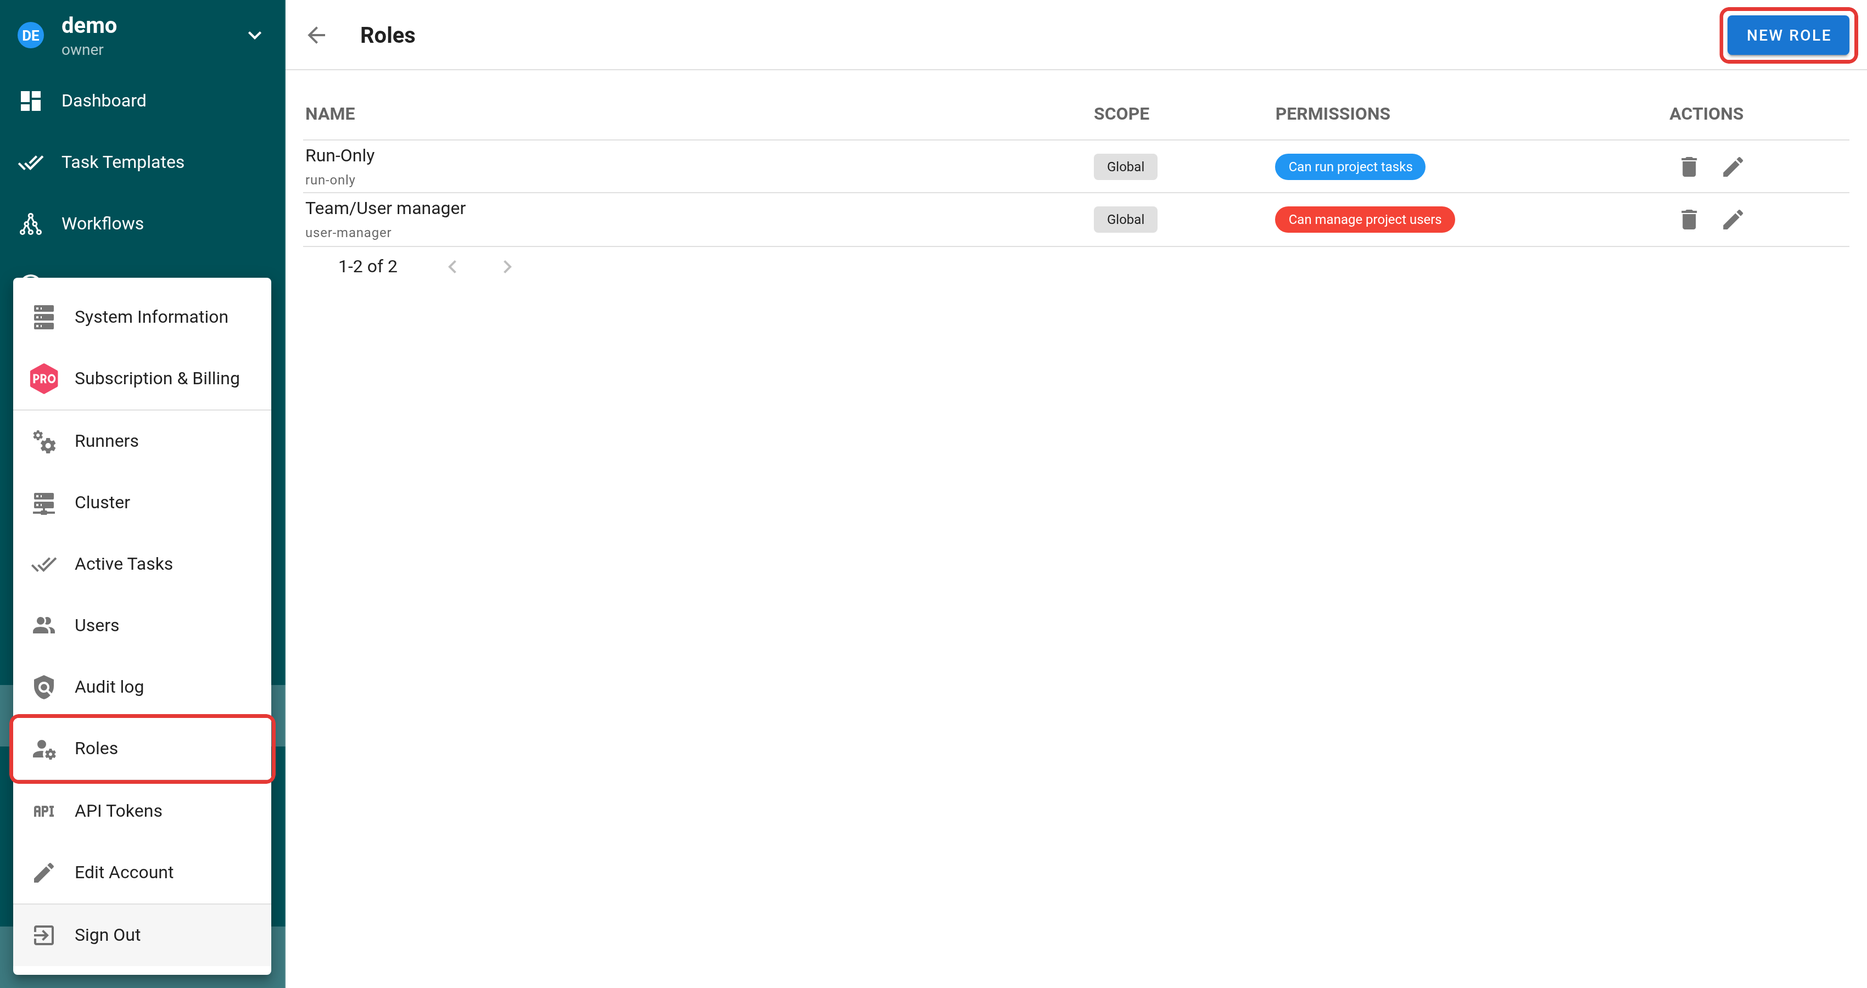
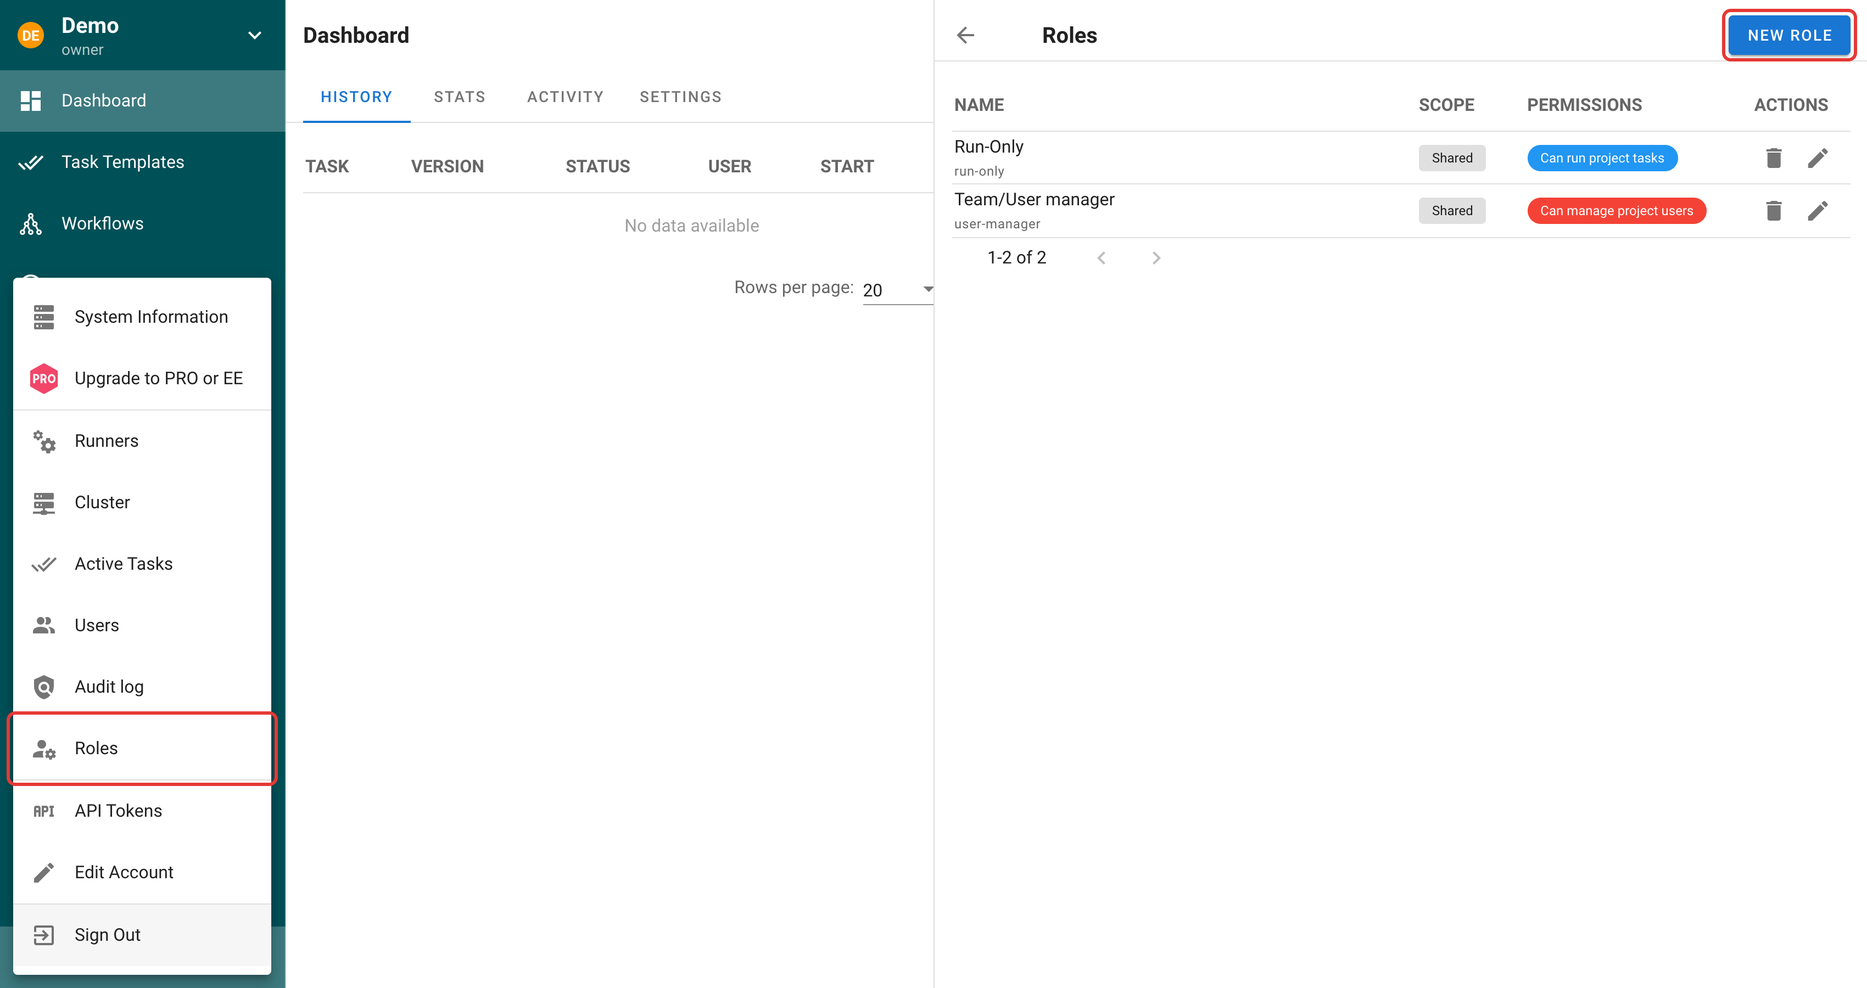
feat: add screenshots

diff --git a/docs/user-guide/team.md b/docs/user-guide/team.md
@@ -86,8 +86,10 @@ A custom role is a role you create yourself, with the permissions you choose. Yo
 
 Custom roles are available at two scopes:
 
-- **Global roles** are defined at the instance level and can be used in any project.
+- **Shared roles** are project-level roles defined at the instance level, on the **Roles** page. They can be used in any project.
 - **Project roles** are defined inside a single project and are available only within that project.
+
+Both grant permissions inside a project. Instance-wide rights, such as managing users or reading the audit log, come from **global roles**, a separate kind of role that is never added to a project member.
 
 ### Permission levels {#permission-levels}
 
@@ -100,17 +102,22 @@ Custom roles grant permissions at two levels:
 
 Choose the scope before opening the role form.
 
-#### Global role {#global-role}
+#### Instance-level roles {#global-role}
 
-Global roles are created once and can be assigned to users in any project. A global role can also carry [global permissions](#global-permissions): instance-wide rights that a user receives when the role is [assigned to them globally](#assign-a-global-role-to-a-user), outside of any project.
+Two kinds of roles are managed at the instance level:
 
-An instance administrator, or a user whose global role grants **Can manage global roles**, can create a global role.
+- **Shared roles** on the **Roles** page. A shared role is created once and can be added to a member of any project, like a built-in role.
+- **Global roles** on the **Global roles** tab of the **Users** page. They grant [global permissions](#global-permissions): instance-wide rights a user receives when the role is [assigned to them](#assign-a-global-role-to-a-user), outside of any project. A global role has no project permissions and cannot be added to a project member.
 
-Open the bottom-left admin menu and select **Roles**.
+An instance administrator, or a user whose global role grants **Can manage global roles**, can create both.
 
-On the instance-wide list of roles, select **New Role**.
+Open the bottom-left admin menu and select **Roles** for a shared role, or **Users** and the **Global roles** tab for a global role.
+
+Select **New Role** (or **New Global Role**).
 
 ![Open Roles from the administrator menu, then select New Role](/assets/custom-roles-navigation-to-new-role-annotated-v4.png)
+
+![Global roles tab on the Users page](/assets/custom-roles-global-roles-tab.webp)
 
 #### Project role {#project-role}
 
@@ -125,7 +132,7 @@ The **Roles** tab is empty until the first project role is created. It lists all
 
 ### Configure a custom role {#configure-a-custom-role}
 
-Both paths open the same role form. Configure the role to match the access your team member needs.
+Shared roles and project roles open the same role form. Configure the role to match the access your team member needs.
 
 ![New Role dialog with fields and permission checkboxes](/assets/custom-roles-global-role-form.jpg)
 
@@ -134,7 +141,10 @@ Both paths open the same role form. Configure the role to match the access your 
 | **Name** | A human-readable label for the role. |
 | **Slug** | A unique technical identifier used to reference the role. It can contain letters, numbers, `_` and `-`, up to 100 characters, for example `release_operator`. Letter case does not matter: `Ops` and `ops` are the same slug. You cannot change the slug after you create the role. |
 | **Permissions** | The project-wide permissions granted by the role. |
-| **Global permissions** | Global roles only. The instance-wide permissions a user receives when the role is assigned to them globally. |
+
+The form of a global role has the same **Name** and **Slug** fields and, instead of project permissions, the **global permissions** the role grants.
+
+![New Global Role dialog with the global permission checkboxes](/assets/custom-roles-new-global-role.webp)
 
 #### Project-wide permissions {#project-wide-permissions}
 
@@ -155,12 +165,12 @@ To create a granular role that adds access only to selected task templates, leav
 
 #### Global permissions {#global-permissions}
 
-A global role can grant instance-wide permissions. They apply only when the role is assigned to a user globally, on the user's **Global roles** tab. The same role added to a project member grants only its project-wide permissions.
+A global role grants instance-wide permissions. They apply when the role is assigned to a user on the user's **Roles** tab. A global role never grants anything inside a project, and a shared or project role never grants anything instance-wide: the two kinds of permissions are kept apart.
 
 | Permission | Description |
 | --- | --- |
 | **Can manage users** | Create, edit and delete users. The **Admin** and **Pro user** flags stay with administrators, and a user manager cannot change or delete an administrator or a user who holds a global permission the manager does not hold. |
-| **Can manage global roles** | Create, edit and delete global roles, and assign them to users. |
+| **Can manage global roles** | Create, edit and delete shared and global roles, and assign global roles to users. |
 | **Can manage system settings** | Open **Settings**, **Apps**, **Runners**, **Cluster** and **Active tasks**, and clear the cache. |
 | **Can read the audit log** | Open the audit log. |
 
@@ -173,12 +183,16 @@ Select **Save** when the role configuration is ready.
 ### Assign a global role to a user {#assign-a-global-role-to-a-user}
 
 1. Open the bottom-left admin menu and select **Users**.
-2. Open the user and go to the **Global roles** tab.
+2. Open the user and go to the **Roles** tab.
 3. Choose a global role and select **Assign**.
 
-The tab lists the roles the user holds and the resulting **effective global permissions**, with the role that grants each of them. Remove a role with the delete button next to it.
+The tab lists the global roles the user holds and the resulting **effective global permissions**, with the role that grants each of them. Remove a role with the delete button next to it.
 
-Only roles with at least one global permission are offered. Built-in roles cannot be assigned globally: they grant nothing outside a project.
+Only global roles are offered. Shared, project and built-in roles belong to project membership and cannot be assigned here.
+
+Deleting a global role that users hold asks for confirmation and removes it from every user. The last user who can manage global roles keeps the role.
+
+![Roles tab of a user with an assigned global role and the effective global permissions](/assets/custom-roles-assign-global-role.webp)
 
 ### Configure access to specific task templates {#configure-access-to-specific-task-templates}
 
@@ -210,7 +224,7 @@ Template permissions are additive. They add access without replacing or reducing
 
 ### Assign a custom role in a project {#assign-a-custom-role-in-a-project}
 
-After creating and configuring a global or project role, assign it to the required team member:
+After creating and configuring a shared or project role, assign it to the required team member:
 
 1. Open the project and go to **Team**.
 2. Select the role field next to the required member.

diff --git a/i18n/ru/docusaurus-plugin-content-docs/current/user-guide/team.md b/i18n/ru/docusaurus-plugin-content-docs/current/user-guide/team.md
@@ -107,6 +107,8 @@
 
 ![Откройте Roles из меню администратора и выберите New Role](/assets/custom-roles-navigation-to-new-role-annotated-v4.png)
 
+![Global roles tab on the Users page](/assets/custom-roles-global-roles-tab.webp)
+
 #### Роль проекта {#project-role}
 
 Роли проекта доступны только в том проекте, где они созданы. Создавать их могут владельцы и менеджеры проекта.
@@ -130,6 +132,8 @@
 | **Slug** | Уникальный технический идентификатор, по которому на роль ссылаются. Может содержать латинские буквы, цифры, `_` и `-`, не более 100 символов, например `release_operator`. Регистр букв не важен: `Ops` и `ops` — один и тот же slug. После создания роли slug изменить нельзя. |
 | **Permissions** | Права на уровне проекта, которые даёт роль. |
 | **Global permissions** | Только для глобальных ролей. Права на уровне экземпляра, которые пользователь получает, когда роль назначена ему глобально. |
+
+![New Global Role dialog with the global permission checkboxes](/assets/custom-roles-new-global-role.webp)
 
 #### Права на уровне проекта {#project-wide-permissions}
 
@@ -174,6 +178,8 @@ Semaphore сохраняет хотя бы одного пользователя
 На вкладке перечислены роли пользователя и итоговые **эффективные глобальные права** с указанием роли, которая даёт каждое из них. Чтобы снять роль, нажмите кнопку удаления рядом с ней.
 
 Предлагаются только роли хотя бы с одним глобальным правом. Встроенные роли нельзя назначить глобально: вне проекта они ничего не дают.
+
+![Roles tab of a user with an assigned global role and the effective global permissions](/assets/custom-roles-assign-global-role.webp)
 
 ### Настройка доступа к конкретным шаблонам задач {#configure-access-to-specific-task-templates}
 

diff --git a/i18n/de/docusaurus-plugin-content-docs/current/user-guide/team.md b/i18n/de/docusaurus-plugin-content-docs/current/user-guide/team.md
@@ -107,6 +107,8 @@ Wählen Sie in der instanzweiten Liste der Rollen **New Role**.
 
 ![Öffnen Sie Roles über das Administratormenü und wählen Sie dann New Role](/assets/custom-roles-navigation-to-new-role-annotated-v4.png)
 
+![Global roles tab on the Users page](/assets/custom-roles-global-roles-tab.webp)
+
 #### Projektrolle {#project-role}
 
 Projektrollen sind nur in dem Projekt verfügbar, in dem sie erstellt wurden. Owner und Manager des Projekts können sie erstellen.
@@ -130,6 +132,8 @@ Beide Wege öffnen dasselbe Rollenformular. Konfigurieren Sie die Rolle so, dass
 | **Slug** | Ein eindeutiger technischer Identifikator, über den die Rolle referenziert wird. Er darf Buchstaben, Zahlen, `_` und `-` enthalten, bis zu 100 Zeichen, zum Beispiel `release_operator`. Groß- und Kleinschreibung spielt keine Rolle: `Ops` und `ops` sind derselbe Slug. Nach dem Erstellen der Rolle können Sie den Slug nicht mehr ändern. |
 | **Permissions** | Die projektweiten Berechtigungen, die die Rolle gewährt. |
 | **Global permissions** | Nur bei globalen Rollen. Die instanzweiten Berechtigungen, die ein Benutzer erhält, wenn ihm die Rolle global zugewiesen wird. |
+
+![New Global Role dialog with the global permission checkboxes](/assets/custom-roles-new-global-role.webp)
 
 #### Projektweite Berechtigungen {#project-wide-permissions}
 
@@ -174,6 +178,8 @@ Wählen Sie **Save**, wenn die Rollenkonfiguration fertig ist.
 Der Tab listet die Rollen des Benutzers und die daraus resultierenden **effektiven globalen Berechtigungen**, jeweils mit der Rolle, die sie gewährt. Entfernen Sie eine Rolle über die Löschen-Schaltfläche daneben.
 
 Angeboten werden nur Rollen mit mindestens einer globalen Berechtigung. Integrierte Rollen können nicht global zugewiesen werden: Sie gewähren außerhalb eines Projekts nichts.
+
+![Roles tab of a user with an assigned global role and the effective global permissions](/assets/custom-roles-assign-global-role.webp)
 
 ### Zugriff auf bestimmte Task Templates konfigurieren {#configure-access-to-specific-task-templates}
 

diff --git a/i18n/it/docusaurus-plugin-content-docs/current/user-guide/team.md b/i18n/it/docusaurus-plugin-content-docs/current/user-guide/team.md
@@ -107,6 +107,8 @@ Nell'elenco dei ruoli a livello di istanza, selezionare **New Role**.
 
 ![Aprire Roles dal menu dell'amministratore, quindi selezionare New Role](/assets/custom-roles-navigation-to-new-role-annotated-v4.png)
 
+![Global roles tab on the Users page](/assets/custom-roles-global-roles-tab.webp)
+
 #### Ruolo di Project {#project-role}
 
 I ruoli di Project sono disponibili solo nel Project in cui vengono creati. Possono crearli gli Owner e i Manager del Project.
@@ -130,6 +132,8 @@ Entrambi i percorsi aprono lo stesso modulo del ruolo. Configurare il ruolo in b
 | **Slug** | Un identificatore tecnico univoco utilizzato per fare riferimento al ruolo. Può contenere lettere, numeri, `_` e `-`, fino a 100 caratteri, ad esempio `release_operator`. Maiuscole e minuscole non contano: `Ops` e `ops` sono lo stesso slug. Non è possibile modificare lo slug dopo aver creato il ruolo. |
 | **Permissions** | I permessi a livello di Project concessi dal ruolo. |
 | **Global permissions** | Solo per i ruoli globali. I permessi a livello di istanza che un utente riceve quando il ruolo gli viene assegnato globalmente. |
+
+![New Global Role dialog with the global permission checkboxes](/assets/custom-roles-new-global-role.webp)
 
 #### Permessi a livello di Project {#project-wide-permissions}
 
@@ -174,6 +178,8 @@ Selezionare **Save** quando la configurazione del ruolo è pronta.
 La scheda elenca i ruoli posseduti dall'utente e i **permessi globali effettivi** risultanti, con il ruolo che concede ciascuno di essi. Rimuovere un ruolo con il pulsante di eliminazione accanto.
 
 Vengono proposti solo i ruoli con almeno un permesso globale. I ruoli integrati non possono essere assegnati globalmente: non concedono nulla al di fuori di un Project.
+
+![Roles tab of a user with an assigned global role and the effective global permissions](/assets/custom-roles-assign-global-role.webp)
 
 ### Configurazione dell'accesso a Task Template specifici {#configure-access-to-specific-task-templates}
 

diff --git a/i18n/pt/docusaurus-plugin-content-docs/current/user-guide/team.md b/i18n/pt/docusaurus-plugin-content-docs/current/user-guide/team.md
@@ -107,6 +107,8 @@ Na lista de papéis de toda a instância, selecione **New Role**.
 
 ![Abra Roles no menu do administrador e, em seguida, selecione New Role](/assets/custom-roles-navigation-to-new-role-annotated-v4.png)
 
+![Global roles tab on the Users page](/assets/custom-roles-global-roles-tab.webp)
+
 #### Papel de projeto {#project-role}
 
 Os papéis de projeto estão disponíveis apenas no projeto em que foram criados. Os Owners e Managers do projeto podem criá-los.
@@ -130,6 +132,8 @@ Ambos os caminhos abrem o mesmo formulário de papel. Configure o papel de acord
 | **Slug** | Um identificador técnico único usado para referenciar o papel. Pode conter letras, números, `_` e `-`, até 100 caracteres, por exemplo `release_operator`. Maiúsculas e minúsculas não importam: `Ops` e `ops` são o mesmo slug. Não é possível alterar o slug depois de criar o papel. |
 | **Permissions** | As permissões em todo o projeto concedidas pelo papel. |
 | **Global permissions** | Apenas papéis globais. As permissões em toda a instância que um usuário recebe quando o papel lhe é atribuído globalmente. |
+
+![New Global Role dialog with the global permission checkboxes](/assets/custom-roles-new-global-role.webp)
 
 #### Permissões em todo o projeto {#project-wide-permissions}
 
@@ -174,6 +178,8 @@ Selecione **Save** quando a configuração do papel estiver pronta.
 A aba lista os papéis que o usuário possui e as **permissões globais efetivas** resultantes, com o papel que concede cada uma delas. Remova um papel com o botão de exclusão ao lado dele.
 
 Apenas papéis com pelo menos uma permissão global são oferecidos. Papéis integrados não podem ser atribuídos globalmente: eles não concedem nada fora de um projeto.
+
+![Roles tab of a user with an assigned global role and the effective global permissions](/assets/custom-roles-assign-global-role.webp)
 
 ### Configurar o acesso a modelos de tarefa específicos {#configure-access-to-specific-task-templates}
 

diff --git a/i18n/es/docusaurus-plugin-content-docs/current/user-guide/team.md b/i18n/es/docusaurus-plugin-content-docs/current/user-guide/team.md
@@ -107,6 +107,8 @@ En la lista de roles de toda la instancia, seleccione **Nuevo rol**.
 
 ![Abra Roles desde el menú de administrador y luego seleccione Nuevo rol](/assets/custom-roles-navigation-to-new-role-annotated-v4.png)
 
+![Global roles tab on the Users page](/assets/custom-roles-global-roles-tab.webp)
+
 #### Rol de proyecto {#project-role}
 
 Los roles de proyecto solo están disponibles en el proyecto en el que se crean. Los Propietarios y Gestores del proyecto pueden crearlos.
@@ -130,6 +132,8 @@ Ambas vías abren el mismo formulario de rol. Configure el rol para que se ajust
 | **Slug** | Un identificador técnico único que se usa para hacer referencia al rol. Puede contener letras, números, `_` y `-`, hasta 100 caracteres, por ejemplo `release_operator`. Las mayúsculas y minúsculas no importan: `Ops` y `ops` son el mismo slug. No puede cambiar el slug después de crear el rol. |
 | **Permisos** | Los permisos a nivel de proyecto que concede el rol. |
 | **Global permissions** | Solo en roles globales. Los permisos a nivel de instancia que un usuario recibe cuando el rol se le asigna globalmente. |
+
+![New Global Role dialog with the global permission checkboxes](/assets/custom-roles-new-global-role.webp)
 
 #### Permisos a nivel de proyecto {#project-wide-permissions}
 
@@ -174,6 +178,8 @@ Seleccione **Guardar** cuando la configuración del rol esté lista.
 La pestaña muestra los roles que tiene el usuario y los **permisos globales efectivos** resultantes, con el rol que concede cada uno. Quite un rol con el botón de eliminar que hay junto a él.
 
 Solo se ofrecen los roles con al menos un permiso global. Los roles integrados no pueden asignarse globalmente: no conceden nada fuera de un proyecto.
+
+![Roles tab of a user with an assigned global role and the effective global permissions](/assets/custom-roles-assign-global-role.webp)
 
 ### Configurar el acceso a plantillas de tareas específicas {#configure-access-to-specific-task-templates}
 

diff --git a/i18n/sr/docusaurus-plugin-content-docs/current/user-guide/team.md b/i18n/sr/docusaurus-plugin-content-docs/current/user-guide/team.md
@@ -107,6 +107,8 @@ Na listi uloga na nivou instance izaberite **New Role**.
 
 ![Otvorite Roles iz administratorskog menija, zatim izaberite New Role](/assets/custom-roles-navigation-to-new-role-annotated-v4.png)
 
+![Global roles tab on the Users page](/assets/custom-roles-global-roles-tab.webp)
+
 #### Uloga projekta {#project-role}
 
 Uloge projekta dostupne su samo u projektu u kojem su kreirane. Mogu ih kreirati vlasnici i menadžeri projekta.
@@ -130,6 +132,8 @@ Oba puta otvaraju isti obrazac uloge. Podesite ulogu tako da odgovara pristupu k
 | **Slug** | Jedinstveni tehnički identifikator koji se koristi za referenciranje uloge. Može da sadrži slova, brojeve, `_` i `-`, do 100 znakova, na primer `release_operator`. Velika i mala slova nisu bitna: `Ops` i `ops` su isti slug. Slug ne možete promeniti nakon što kreirate ulogu. |
 | **Permissions** | Dozvole na nivou projekta koje uloga dodeljuje. |
 | **Global permissions** | Samo za globalne uloge. Dozvole na nivou instance koje korisnik dobija kada mu se uloga dodeli globalno. |
+
+![New Global Role dialog with the global permission checkboxes](/assets/custom-roles-new-global-role.webp)
 
 #### Dozvole na nivou projekta {#project-wide-permissions}
 
@@ -174,6 +178,8 @@ Kada je konfiguracija uloge spremna, izaberite **Save**.
 Kartica prikazuje uloge koje korisnik ima i rezultujuće **efektivne globalne dozvole**, uz ulogu koja dodeljuje svaku od njih. Uklonite ulogu dugmetom za brisanje pored nje.
 
 Nude se samo uloge sa bar jednom globalnom dozvolom. Ugrađene uloge ne mogu se dodeliti globalno: van projekta ne dodeljuju ništa.
+
+![Roles tab of a user with an assigned global role and the effective global permissions](/assets/custom-roles-assign-global-role.webp)
 
 ### Podešavanje pristupa određenim šablonima zadataka {#configure-access-to-specific-task-templates}
 

diff --git a/docs/reference/audit-events.md b/docs/reference/audit-events.md
@@ -72,6 +72,11 @@ Every event is a JSON object. Fields that do not apply to an event are left out.
 | `iam.project_role_definition` | `create` | `creation` | success |  | `slug`, `permissions` | Pro |
 | `iam.project_role_definition` | `update` | `change` | success |  | `slug`, `permissions` | Pro |
 | `iam.project_role_definition` | `delete` | `deletion` | success |  | `slug`, `impact` | Pro |
+| `iam.global_role` | `create` | `creation` | success |  | `slug`, `permissions` | Pro |
+| `iam.global_role` | `update` | `change` | success |  | `slug`, `permissions` | Pro |
+| `iam.global_role` | `delete` | `deletion` | success |  | `slug`, `impact` | Pro |
+| `iam.global_role` | `assign` | `change` | success |  | `role`, `global_permissions` | Pro |
+| `iam.global_role` | `unassign` | `change` | success |  | `role`, `global_permissions` | Pro |
 | `iam.template_permission` | `create` | `creation` | success |  | `template_id`, `role`, `permissions` | Community |
 | `iam.template_permission` | `update` | `change` | success |  | `template_id`, `role`, `permissions` | Community |
 | `iam.template_permission` | `delete` | `deletion` | success |  | `template_id`, `role` | Community |
